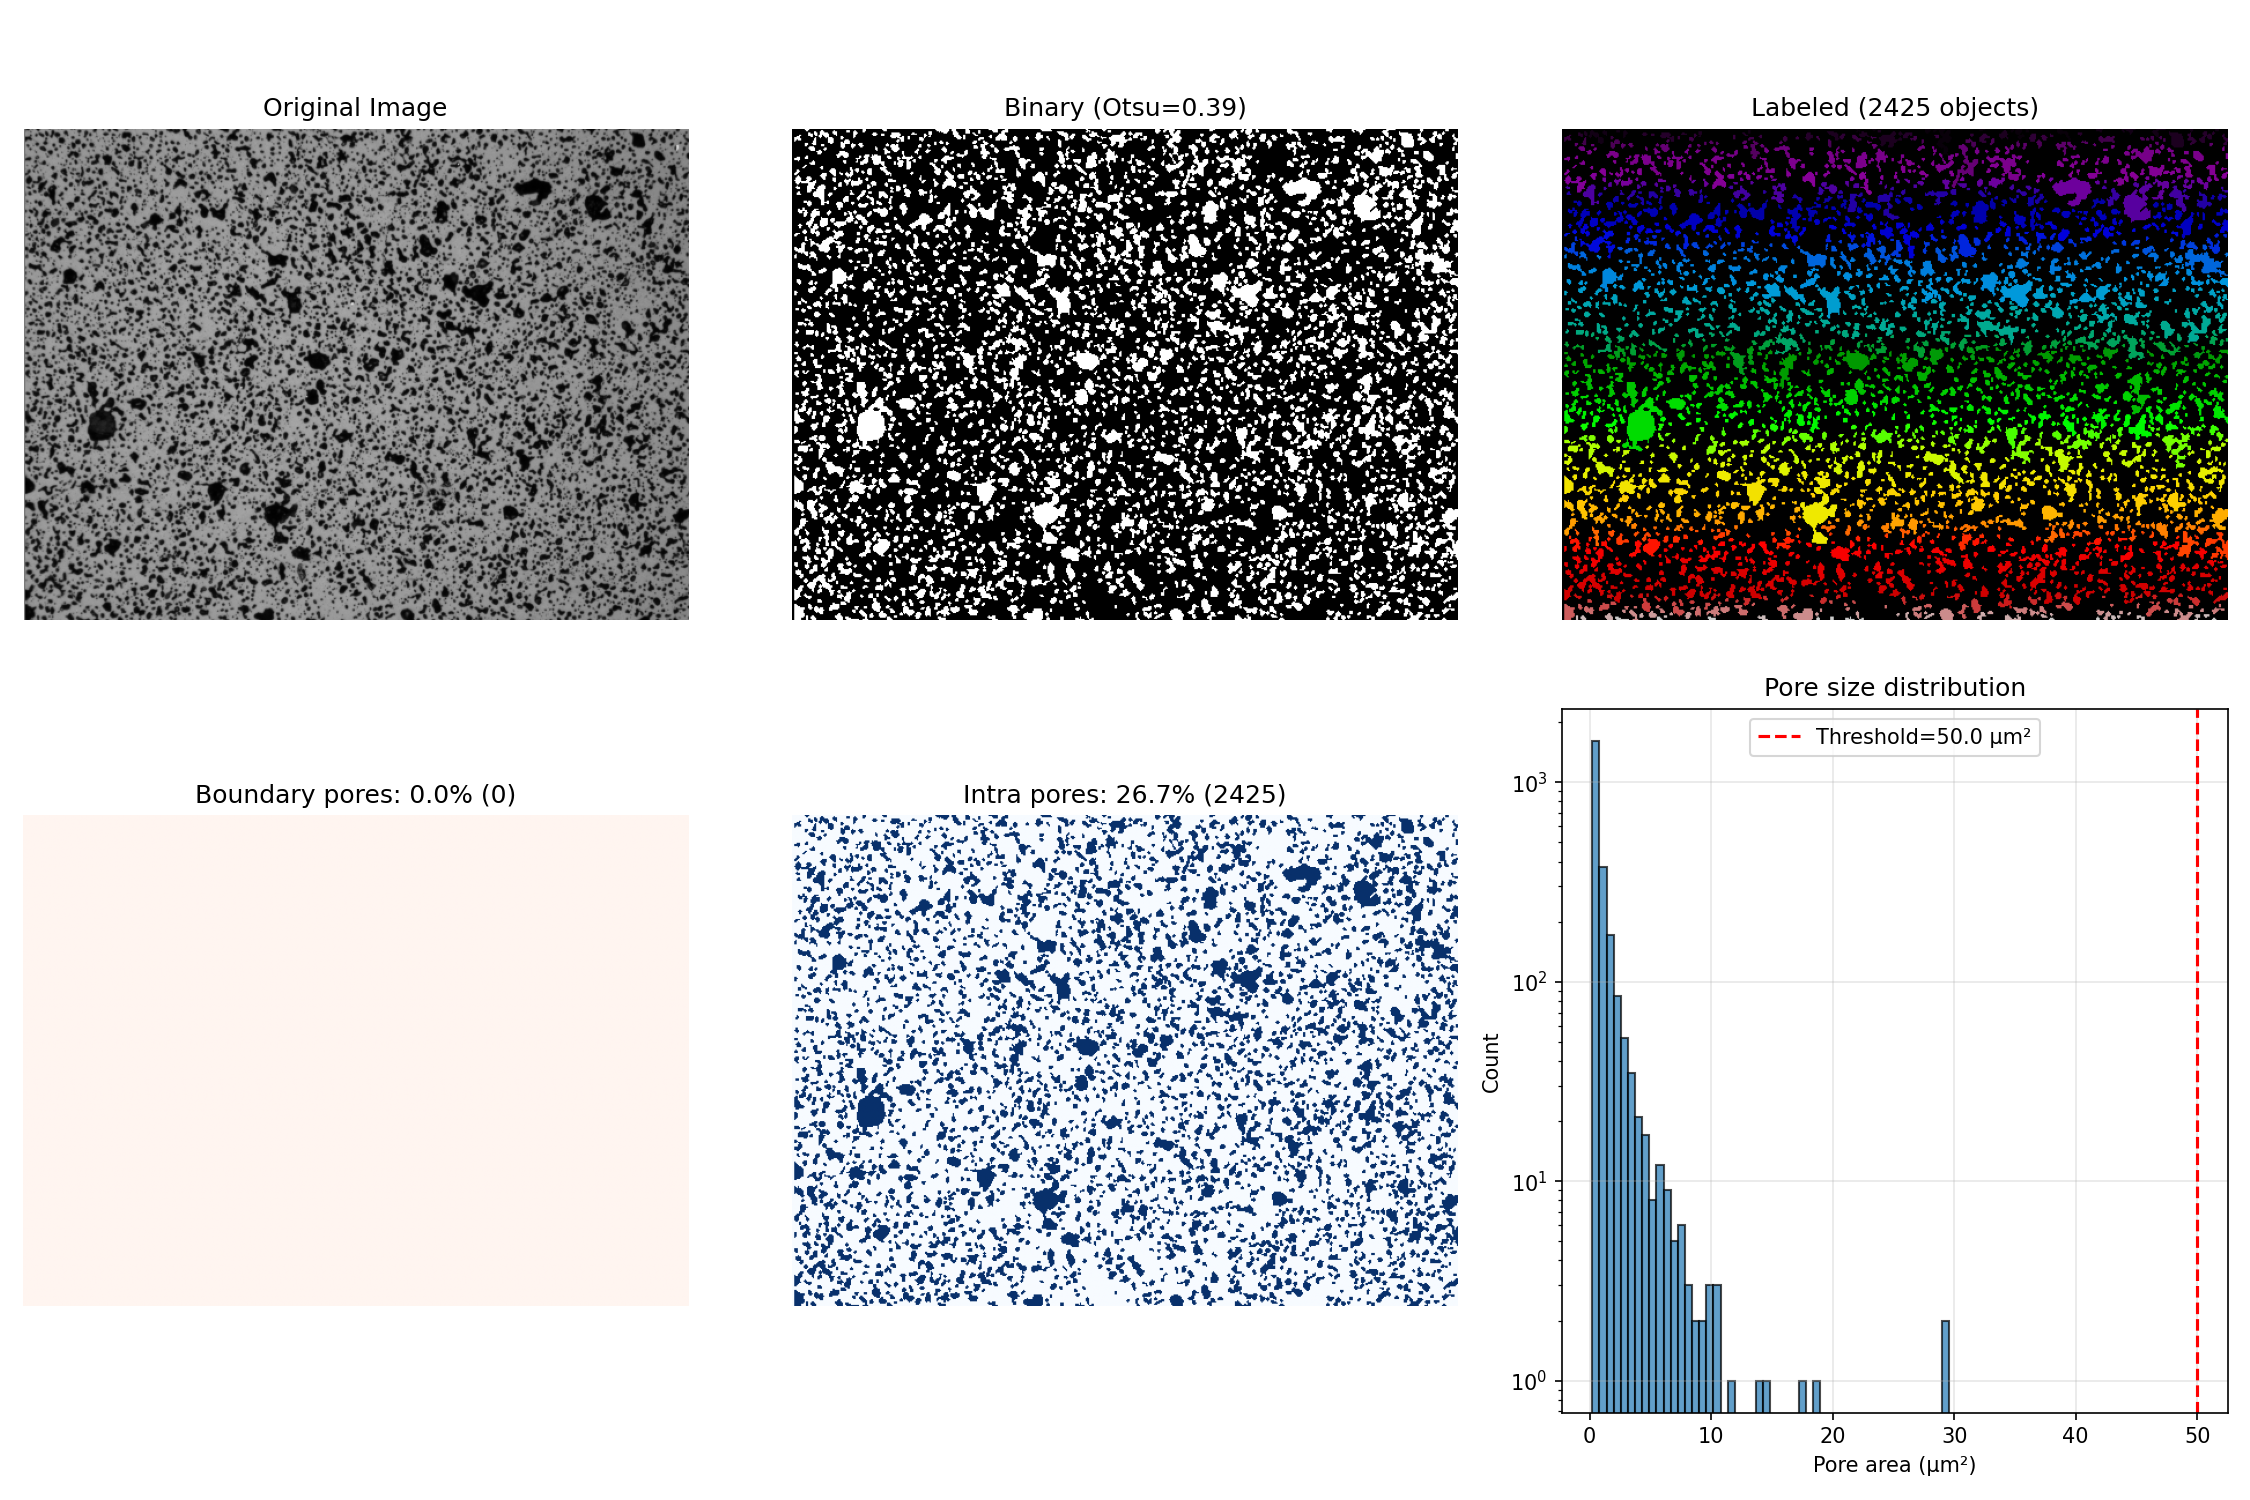
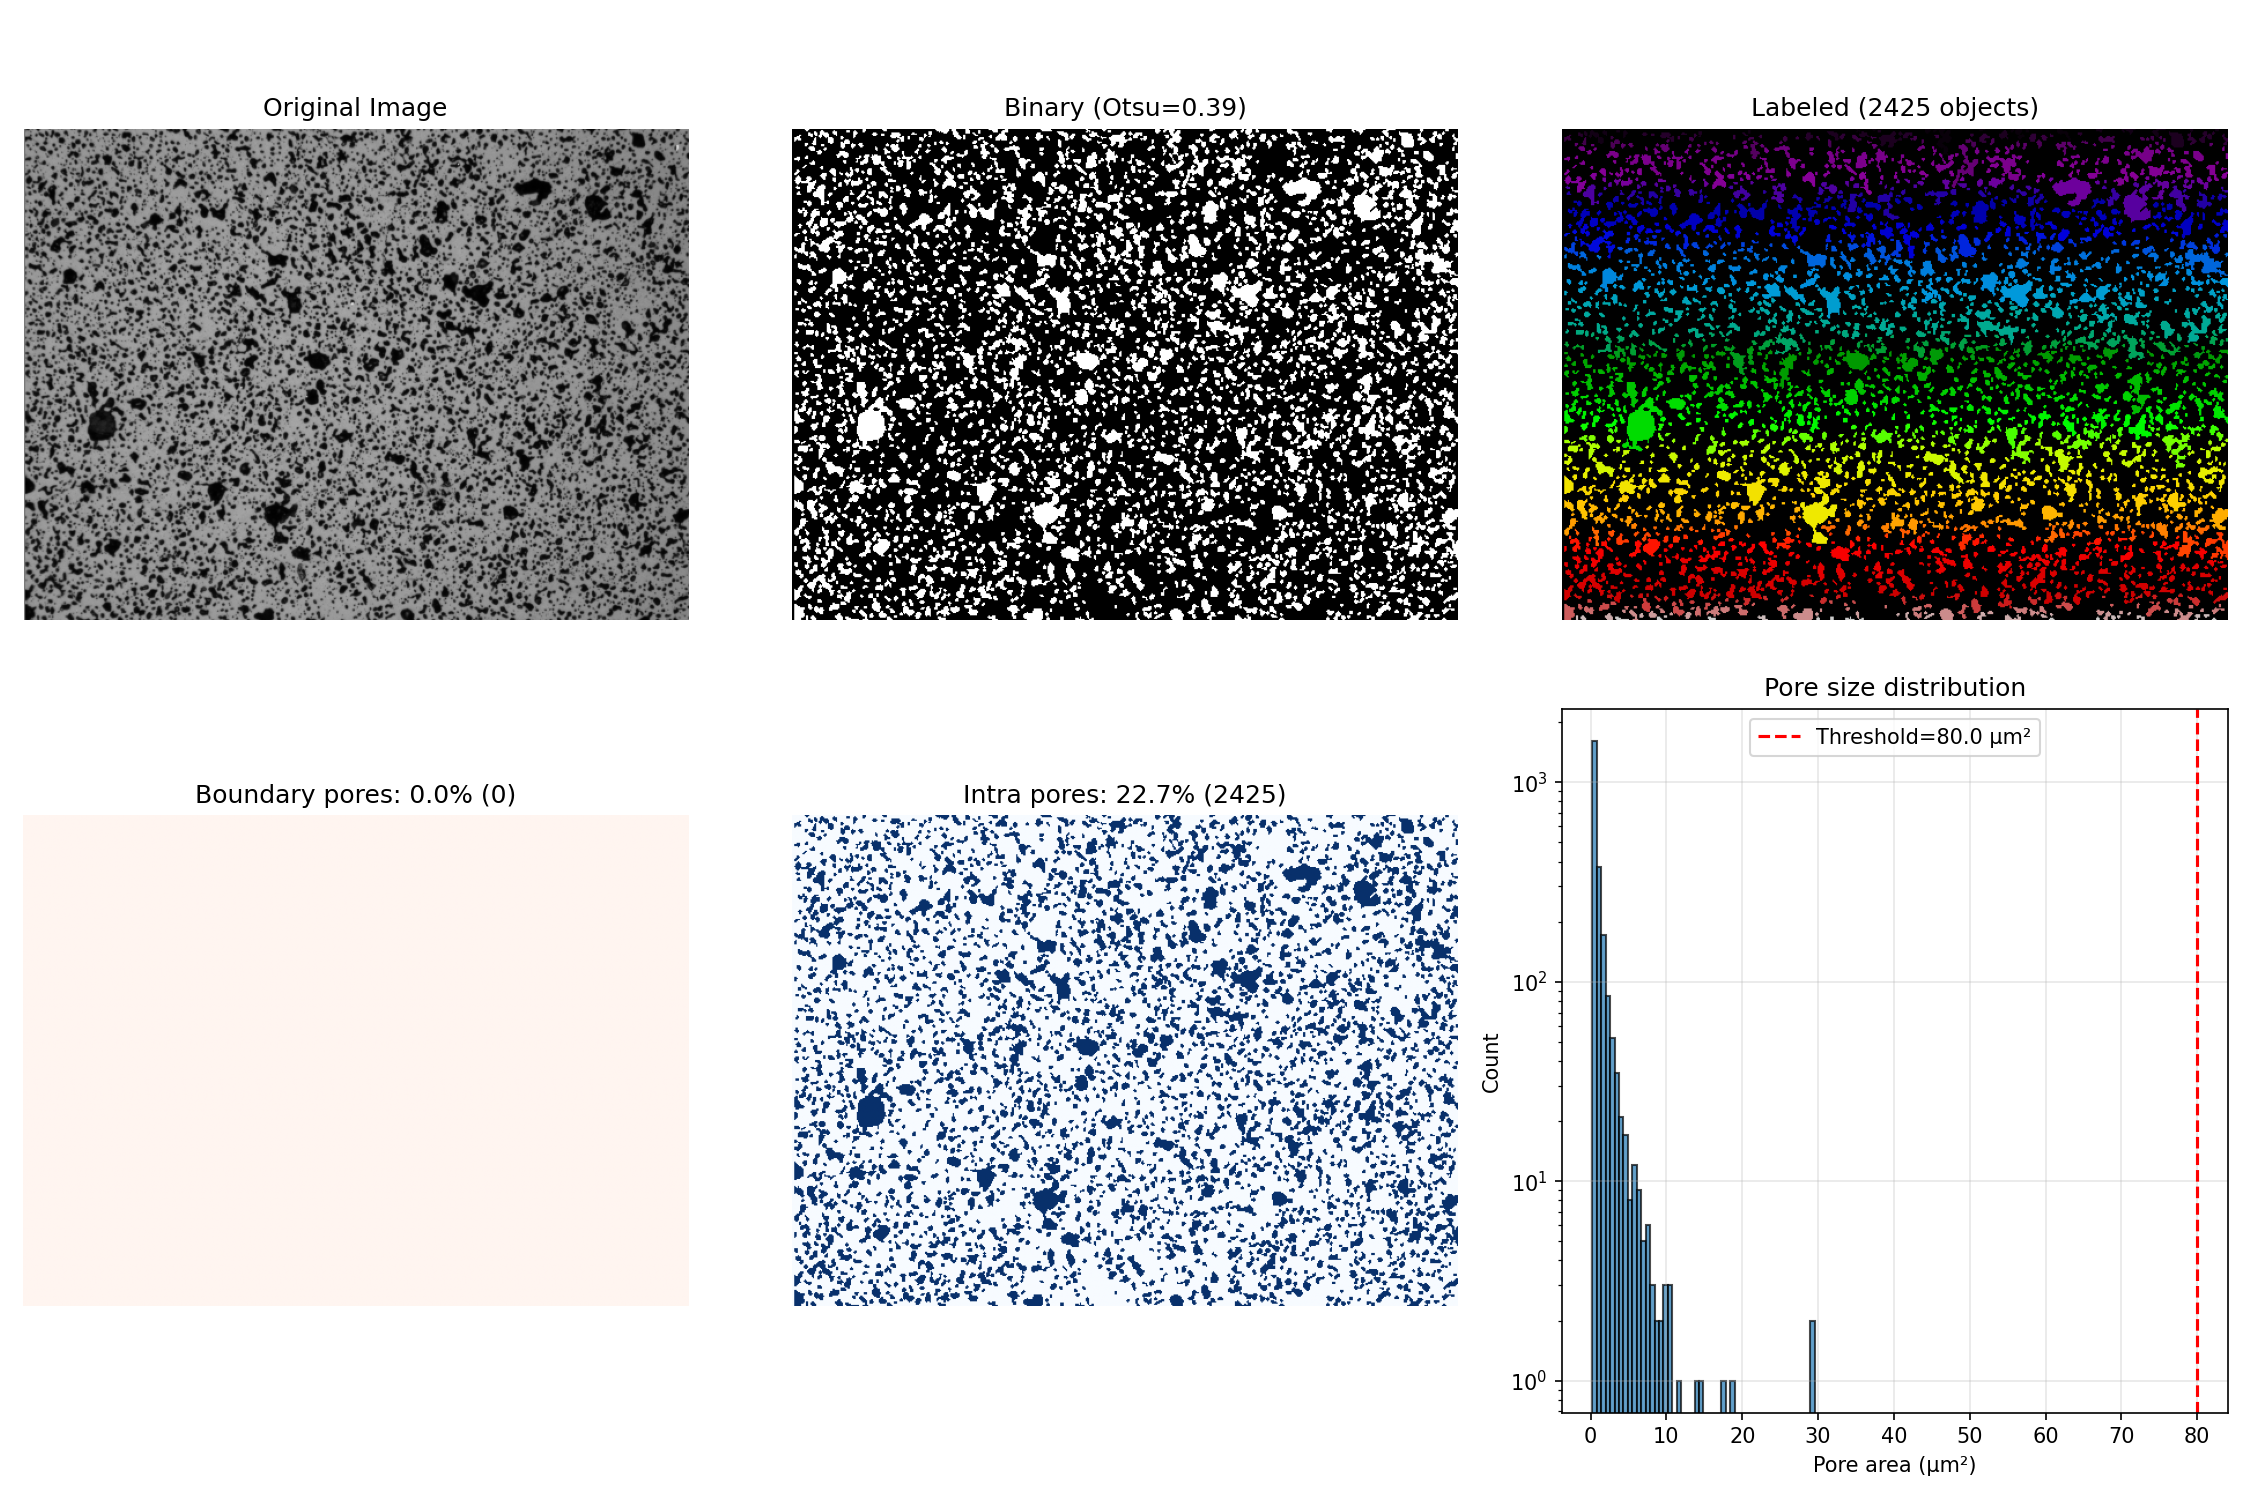
automatized scripts

Changed region(s): [[0.6844, 0.5827, 0.8089, 0.9507], [0.84, 0.8893, 0.8711, 0.9507], [0.9022, 0.9507, 0.9333, 0.9813]]

diff --git a/project_root/experiments/run_optimization.py b/project_root/experiments/run_optimization.py
@@ -461,6 +461,14 @@ def main() -> None:
         help="Number of 2D slices used for image comparison (default: 99).")
     parser.add_argument("--run-amitex", action="store_true",
         help="Run Amitex on the best geometry and report K_eff.")
+    parser.add_argument("--target-porosity", type=float, dest="target_porosity",
+        help="Override target porosity (defaults from pore_analysis.py: distributed=0.227, interconnected=0.138)")
+    parser.add_argument("--p-boundary", type=float, dest="p_boundary",
+        help="Boundary porosity from pore_analysis.py (for interconnected mode)")
+    parser.add_argument("--p-intra", type=float, dest="p_intra",
+        help="Intra-granular porosity from pore_analysis.py (for interconnected mode)")
+    parser.add_argument("--p-total", type=float, dest="p_total",
+        help="Total porosity from pore_analysis.py (for reference)")
     parser.add_argument(
         "--dist-type", choices=["lognormal", "gaussian"], default="lognormal",
         dest="dist_type",
@@ -479,7 +487,8 @@ def main() -> None:
 
     mode = args.mode
     exp_image = args.exp_image or _EXP_IMAGES.get(mode)
-    target_porosity = _TARGET_POROSITY.get(mode, 0.0)
+    # Use user-provided target porosity, or fall back to default
+    target_porosity = args.target_porosity if args.target_porosity is not None else _TARGET_POROSITY.get(mode, 0.0)
     n3d = args.n3d or (120 if mode == "distributed" else 150)
 
     # Calculate scale factors for morphology comparison (um per pixel)
